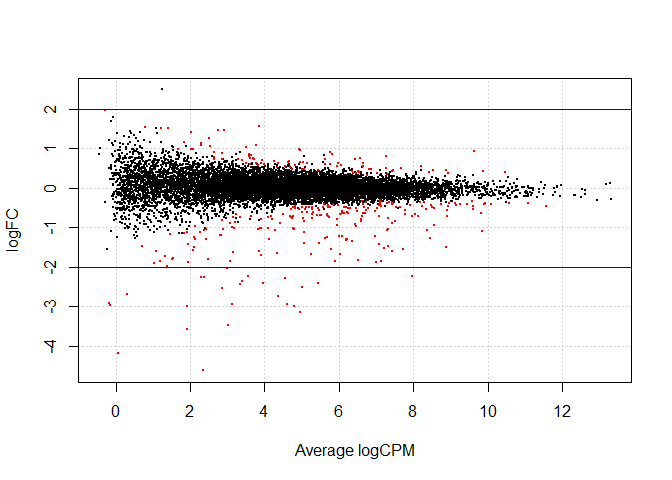
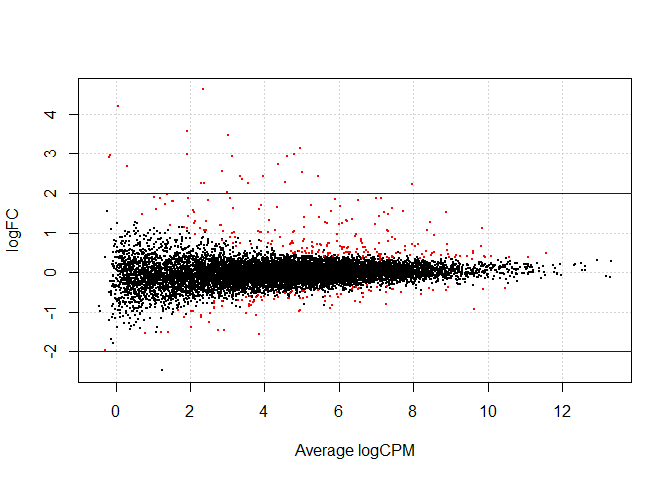
updated markdown

diff --git a/EdgeR/EdgeR.md b/EdgeR/EdgeR.md
@@ -295,7 +295,7 @@ plotBCV(dge_tmm_tag.disp)
 # Note. for this step: dge_tmm.disp = estimateDisp(dge_tmm, design, robust = T)
 fit = glmQLFit(dge_tmm.disp, design)
 
-NHBE_dge = glmQLFTest(fit, contrast=c(1,-1))
+NHBE_dge = glmQLFTest(fit, contrast=c(-1,1)) # Contrast is covid s mock
 NHBE_dge_list = decideTestsDGE(NHBE_dge, adjust.method="BH", p.value=0.05)
 EstDisp = row.names(NHBE_dge_list[NHBE_dge_list!= 0,1,1]) # Names of DE genes
 length(EstDisp) # Number of DE genes
@@ -307,18 +307,18 @@ length(EstDisp) # Number of DE genes
 topTags(NHBE_dge, n=10) # Genes with 10 lowest pvalues
 ```
 
-    ## Coefficient:  1*mock_NHBE -1*covid_NHBE 
-    ##             logFC   logCPM        F       PValue          FDR
-    ## SAA2    -2.428709 5.437383 540.7592 7.471243e-12 8.994630e-08
-    ## CCL20   -3.148351 4.954443 441.3524 2.658128e-11 1.600060e-07
-    ## IL36G   -2.736126 4.363008 346.9750 1.184557e-10 4.753627e-07
-    ## INHBA   -1.824570 6.515685 281.9283 4.260236e-10 1.282224e-06
-    ## TNFAIP3 -1.616961 7.423374 265.4893 6.158454e-10 1.342959e-06
-    ## S100A8  -1.874895 7.002240 261.9050 6.693043e-10 1.342959e-06
-    ## SPRR2D  -2.987542 4.799459 237.0187 1.231702e-09 1.579843e-06
-    ## KRT6B   -1.554510 7.717157 234.3918 1.318249e-09 1.579843e-06
-    ## SAA1    -2.227944 7.957976 230.6406 1.454322e-09 1.579843e-06
-    ## CFB     -1.860238 5.886831 229.5129 1.498359e-09 1.579843e-06
+    ## Coefficient:  -1*mock_NHBE 1*covid_NHBE 
+    ##            logFC   logCPM        F       PValue          FDR
+    ## SAA2    2.428709 5.437383 540.7592 7.471243e-12 8.994630e-08
+    ## CCL20   3.148351 4.954443 441.3524 2.658128e-11 1.600060e-07
+    ## IL36G   2.736126 4.363008 346.9750 1.184557e-10 4.753627e-07
+    ## INHBA   1.824570 6.515685 281.9283 4.260236e-10 1.282224e-06
+    ## TNFAIP3 1.616961 7.423374 265.4893 6.158454e-10 1.342959e-06
+    ## S100A8  1.874895 7.002240 261.9050 6.693043e-10 1.342959e-06
+    ## SPRR2D  2.987542 4.799459 237.0187 1.231702e-09 1.579843e-06
+    ## KRT6B   1.554510 7.717157 234.3918 1.318249e-09 1.579843e-06
+    ## SAA1    2.227944 7.957976 230.6406 1.454322e-09 1.579843e-06
+    ## CFB     1.860238 5.886831 229.5129 1.498359e-09 1.579843e-06
 
 #### Viewing Smear plot
 
@@ -335,7 +335,7 @@ abline(h = c(-2, 2), col = "blue")
 # dge_tmm_tr.disp = estimateGLMTrendedDisp(dge_tmm_c.disp,design, method="bin.spline")
 fit = glmQLFit(dge_tmm_tr.disp, design)
 
-NHBE_dge = glmQLFTest(fit, contrast=c(1,-1))
+NHBE_dge = glmQLFTest(fit, contrast=c(-1,1))
 NHBE_dge_list = decideTestsDGE(NHBE_dge, adjust.method="BH", p.value=0.05)
 GLM_Trend = row.names(NHBE_dge_list[NHBE_dge_list!= 0,1,1]) # Names of DE genes
 length(GLM_Trend) # Number of DE genes
@@ -347,18 +347,18 @@ length(GLM_Trend) # Number of DE genes
 topTags(NHBE_dge, n=10) # Genes with 10 lowest pvalues
 ```
 
-    ## Coefficient:  1*mock_NHBE -1*covid_NHBE 
-    ##             logFC   logCPM        F       PValue          FDR
-    ## SAA2    -2.428547 5.437383 550.9171 6.926604e-12 8.338939e-08
-    ## CCL20   -3.148348 4.954443 439.2325 2.844676e-11 1.712353e-07
-    ## IL36G   -2.735768 4.363013 337.4198 1.457035e-10 5.847081e-07
-    ## INHBA   -1.824524 6.515687 281.8119 4.409698e-10 1.327209e-06
-    ## TNFAIP3 -1.616961 7.423374 263.4705 6.656878e-10 1.402408e-06
-    ## S100A8  -1.874937 7.002240 261.3774 6.989326e-10 1.402408e-06
-    ## SPRR2D  -2.987439 4.799468 235.3902 1.323171e-09 1.664161e-06
-    ## KRT6B   -1.554505 7.717157 233.0541 1.405871e-09 1.664161e-06
-    ## CFB     -1.860295 5.886829 232.5585 1.424173e-09 1.664161e-06
-    ## SAA1    -2.227962 7.957975 229.8871 1.527717e-09 1.664161e-06
+    ## Coefficient:  -1*mock_NHBE 1*covid_NHBE 
+    ##            logFC   logCPM        F       PValue          FDR
+    ## SAA2    2.428547 5.437383 550.9171 6.926604e-12 8.338939e-08
+    ## CCL20   3.148348 4.954443 439.2325 2.844676e-11 1.712353e-07
+    ## IL36G   2.735768 4.363013 337.4198 1.457035e-10 5.847081e-07
+    ## INHBA   1.824524 6.515687 281.8119 4.409698e-10 1.327209e-06
+    ## TNFAIP3 1.616961 7.423374 263.4705 6.656878e-10 1.402408e-06
+    ## S100A8  1.874937 7.002240 261.3774 6.989326e-10 1.402408e-06
+    ## SPRR2D  2.987439 4.799468 235.3902 1.323171e-09 1.664161e-06
+    ## KRT6B   1.554505 7.717157 233.0541 1.405871e-09 1.664161e-06
+    ## CFB     1.860295 5.886829 232.5585 1.424173e-09 1.664161e-06
+    ## SAA1    2.227962 7.957975 229.8871 1.527717e-09 1.664161e-06
 
 #### Viewing Smear plot
 
@@ -375,7 +375,7 @@ abline(h = c(-2, 2), col = "blue")
 # dge_tmm_tag.disp = estimateGLMTagwiseDisp(dge_tmm_tr.disp,design)
 fit = glmQLFit(dge_tmm_tag.disp, design)
 
-NHBE_dge = glmQLFTest(fit, contrast=c(1,-1))
+NHBE_dge = glmQLFTest(fit, contrast=c(-1,1))
 NHBE_dge_list = decideTestsDGE(NHBE_dge, adjust.method="BH", p.value=0.05)
 GLM_Tag = row.names(NHBE_dge_list[NHBE_dge_list!= 0,1,1]) # Names of DE genes
 length(GLM_Tag) # Number of DE genes
@@ -387,18 +387,18 @@ length(GLM_Tag) # Number of DE genes
 topTags(NHBE_dge, n=10) # Genes with 10 lowest pvalues
 ```
 
-    ## Coefficient:  1*mock_NHBE -1*covid_NHBE 
-    ##             logFC   logCPM        F       PValue          FDR
-    ## SAA2    -2.428547 5.437383 550.9171 6.926604e-12 8.338939e-08
-    ## CCL20   -3.148348 4.954443 439.2325 2.844676e-11 1.712353e-07
-    ## IL36G   -2.735768 4.363013 337.4198 1.457035e-10 5.847081e-07
-    ## INHBA   -1.824524 6.515687 281.8119 4.409698e-10 1.327209e-06
-    ## TNFAIP3 -1.616961 7.423374 263.4705 6.656878e-10 1.402408e-06
-    ## S100A8  -1.874937 7.002240 261.3774 6.989326e-10 1.402408e-06
-    ## SPRR2D  -2.987439 4.799468 235.3902 1.323171e-09 1.664161e-06
-    ## KRT6B   -1.554505 7.717157 233.0541 1.405871e-09 1.664161e-06
-    ## CFB     -1.860295 5.886829 232.5585 1.424173e-09 1.664161e-06
-    ## SAA1    -2.227962 7.957975 229.8871 1.527717e-09 1.664161e-06
+    ## Coefficient:  -1*mock_NHBE 1*covid_NHBE 
+    ##            logFC   logCPM        F       PValue          FDR
+    ## SAA2    2.428547 5.437383 550.9171 6.926604e-12 8.338939e-08
+    ## CCL20   3.148348 4.954443 439.2325 2.844676e-11 1.712353e-07
+    ## IL36G   2.735768 4.363013 337.4198 1.457035e-10 5.847081e-07
+    ## INHBA   1.824524 6.515687 281.8119 4.409698e-10 1.327209e-06
+    ## TNFAIP3 1.616961 7.423374 263.4705 6.656878e-10 1.402408e-06
+    ## S100A8  1.874937 7.002240 261.3774 6.989326e-10 1.402408e-06
+    ## SPRR2D  2.987439 4.799468 235.3902 1.323171e-09 1.664161e-06
+    ## KRT6B   1.554505 7.717157 233.0541 1.405871e-09 1.664161e-06
+    ## CFB     1.860295 5.886829 232.5585 1.424173e-09 1.664161e-06
+    ## SAA1    2.227962 7.957975 229.8871 1.527717e-09 1.664161e-06
 
 #### Viewing Smear plot
 
@@ -431,7 +431,7 @@ dge1 = estimateDisp(dge_rle,design, robust = T)
 
 fit = glmQLFit(dge1, design)
 
-NHBE_dge = glmQLFTest(fit, contrast=c(1,-1))
+NHBE_dge = glmQLFTest(fit, contrast=c(-1,1))
 
 NHBE_dge_list = decideTestsDGE(NHBE_dge, adjust.method="BH", p.value=0.05)
 
@@ -456,7 +456,7 @@ dge1 = estimateDisp(dge_uq,design, robust = T)
 
 fit = glmQLFit(dge1, design)
 
-NHBE_dge = glmQLFTest(fit, contrast=c(1,-1))
+NHBE_dge = glmQLFTest(fit, contrast=c(-1,1))
 
 NHBE_dge_list = decideTestsDGE(NHBE_dge, adjust.method="BH", p.value=0.05)
 
